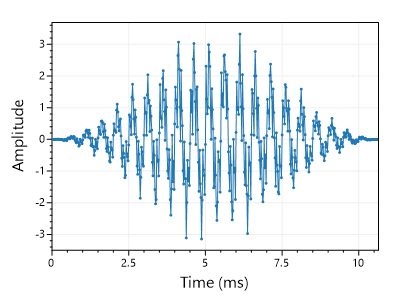
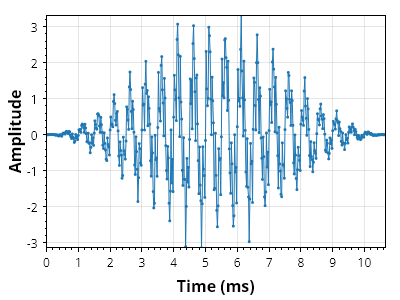
Tests: use ScottPlot 5

diff --git a/src/FftSharp.Tests/Filter.cs b/src/FftSharp.Tests/Filter.cs
@@ -1,9 +1,4 @@
 using NUnit.Framework;
-using System;
-using System.Collections.Generic;
-using System.Drawing;
-using System.Linq;
-using System.Text;
 
 namespace FftSharp.Tests;
 
@@ -20,7 +15,7 @@ class Filter
     public void LoadAndVerifyData()
     {
         Values = LoadData.Double("sample.txt");
-        TimesMsec = ScottPlot.DataGen.Consecutive(Values.Length, SamplePeriod * 1000.0);
+        TimesMsec = ScottPlot.Generate.Consecutive(Values.Length, SamplePeriod * 1000.0);
         Freqs = LoadData.Double("fftFreq.txt");
     }
 
@@ -29,13 +24,18 @@ class Filter
     {
         double[] Filtered = FftSharp.Filter.LowPass(Values, SampleRate, 2000);
 
-        var plt = new ScottPlot.Plot(600, 400);
-        plt.AddScatter(TimesMsec, Values, label: "Original");
-        plt.AddScatter(TimesMsec, Filtered, label: "Low-Pass", lineWidth: 2);
+        var plt = new ScottPlot.Plot();
+        
+        var sp1 = plt.Add.Scatter(TimesMsec, Values);
+        sp1.LegendText = "Original";
+
+        var sp2 = plt.Add.Scatter(TimesMsec, Filtered);
+        sp2.LegendText = "Low-Pass";
+        sp2.LineWidth = 2;
+
         plt.YLabel("Signal Value");
         plt.XLabel("Time (milliseconds)");
-        plt.Legend();
-        plt.SetAxisLimitsX(4, 6);
+        plt.Axes.SetLimitsX(4, 6);
 
         TestTools.SaveFig(plt);
     }
@@ -45,13 +45,18 @@ class Filter
     {
         double[] Filtered = FftSharp.Filter.HighPass(Values, SampleRate, 3000);
 
-        var plt = new ScottPlot.Plot(600, 400);
-        plt.AddScatter(TimesMsec, Values, label: "Original");
-        plt.AddScatter(TimesMsec, Filtered, label: "High-Pass", lineWidth: 2);
+        var plt = new ScottPlot.Plot();
+
+        var sp1 = plt.Add.Scatter(TimesMsec, Values);
+        sp1.LegendText = "Original";
+
+        var sp2 = plt.Add.Scatter(TimesMsec, Filtered);
+        sp2.LegendText = "High-Pass";
+        sp2.LineWidth = 2;
+
         plt.YLabel("Signal Value");
         plt.XLabel("Time (milliseconds)");
-        plt.Legend();
-        plt.SetAxisLimitsX(4, 6);
+        plt.Axes.SetLimitsX(4, 6);
 
         TestTools.SaveFig(plt);
     }
@@ -61,13 +66,17 @@ class Filter
     {
         double[] Filtered = FftSharp.Filter.BandPass(Values, SampleRate, 1900, 2100);
 
-        var plt = new ScottPlot.Plot(600, 400);
-        plt.AddScatter(TimesMsec, Values, label: "Original");
-        plt.AddScatter(TimesMsec, Filtered, label: "Band-Pass", lineWidth: 2);
+        var plt = new ScottPlot.Plot();
+
+        var sp1 = plt.Add.Scatter(TimesMsec, Values);
+        sp1.LegendText = "Original";
+
+        var sp2 = plt.Add.Scatter(TimesMsec, Filtered);
+        sp2.LegendText = "Band-Pass";
+        sp2.LineWidth = 2;
         plt.YLabel("Signal Value");
         plt.XLabel("Time (milliseconds)");
-        plt.Legend();
-        plt.SetAxisLimitsX(4, 6);
+        plt.Axes.SetLimitsX(4, 6);
 
         TestTools.SaveFig(plt);
     }
@@ -77,13 +86,18 @@ class Filter
     {
         double[] Filtered = FftSharp.Filter.BandStop(Values, SampleRate, 1900, 2100);
 
-        var plt = new ScottPlot.Plot(600, 400);
-        plt.AddScatter(TimesMsec, Values, label: "Original");
-        plt.AddScatter(TimesMsec, Filtered, label: "Band-Pass", lineWidth: 2);
+        var plt = new ScottPlot.Plot();
+        
+        var sp1 = plt.Add.Scatter(TimesMsec, Values);
+        sp1.LegendText = "Original";
+
+        var sp2 = plt.Add.Scatter(TimesMsec, Filtered);
+        sp2.LegendText = "Band-Pass";
+        sp2.LineWidth = 2;
+
         plt.YLabel("Signal Value");
         plt.XLabel("Time (milliseconds)");
-        plt.Legend();
-        plt.SetAxisLimitsX(4, 6);
+        plt.Axes.SetLimits(4, 6);
 
         TestTools.SaveFig(plt);
     }

diff --git a/src/FftSharp.Tests/Window.cs b/src/FftSharp.Tests/Window.cs
@@ -4,6 +4,7 @@ using System;
 using System.Collections.Generic;
 using System.IO;
 using System.Linq;
+using System.Reflection.Emit;
 
 namespace FftSharp.Tests;
 
@@ -105,23 +106,24 @@ class Window
     [Test]
     public void Test_Plot_AllWindowKernels()
     {
-        var plt = new ScottPlot.Plot(500, 400);
-        plt.Palette = ScottPlot.Palette.ColorblindFriendly;
+        ScottPlot.Plot plt = new();
+        plt.Add.Palette = new ScottPlot.Palettes.ColorblindFriendly();
 
         foreach (IWindow window in FftSharp.Window.GetWindows())
         {
             if (window.Name == "Rectangular")
                 continue;
-            double[] xs = ScottPlot.DataGen.Range(-1, 1, .01, true);
+            double[] xs = ScottPlot.Generate.Range(-1, 1, .01);
             double[] ys = window.Create(xs.Length);
-            var sp = plt.AddScatter(xs, ys, label: window.Name);
+            var sp = plt.Add.Scatter(xs, ys);
+            sp.LegendText = window.Name;
             sp.MarkerSize = 0;
             sp.LineWidth = 3;
-            sp.Color = System.Drawing.Color.FromArgb(200, sp.Color);
+            sp.Color = sp.Color.WithAlpha(.8);
         }
 
-        plt.Legend(enable: true, location: Alignment.UpperRight);
-        plt.SaveFig(Path.Combine(OUTPUT_FOLDER, "windows.png"));
+        plt.Legend.Alignment = Alignment.UpperRight;
+        plt.SavePng(Path.Combine(OUTPUT_FOLDER, "windows.png"), 500, 400);
     }
 
     [Test]
@@ -138,14 +140,14 @@ class Window
         {
             double[] values = window.Create(32);
             ScottPlot.Plot plt = new();
-            var sig = plt.AddSignal(values);
-            sig.OffsetX = -values.Length / 2 + .5;
+            var sig = plt.Add.Signal(values);
+            sig.Data.XOffset = -values.Length / 2 + .5;
             plt.Title(window.Name);
-            plt.AddVerticalLine(0);
+            plt.Add.VerticalLine(0);
 
             string filename = Path.GetFullPath($"test_window_{window.Name}.png");
             Console.WriteLine(filename);
-            plt.SaveFig(filename);
+            plt.SavePng(filename, 400, 300);
         }
     }
 }

diff --git a/src/FftSharp.Tests/Quickstart.cs b/src/FftSharp.Tests/Quickstart.cs
@@ -40,32 +40,34 @@ class Quickstart
         double[] freqs = FftSharp.FFT.FrequencyScale(fftPower.Length, sampleRate);
 
         // create an array of audio sample times to aid plotting
-        double[] times = ScottPlot.DataGen.Consecutive(audio.Length, 1000d / sampleRate);
+        double[] times = ScottPlot.Generate.Consecutive(audio.Length, 1000d / sampleRate);
 
         // plot the sample audio
-        var plt1 = new ScottPlot.Plot(400, 300);
-        plt1.AddScatter(times, audio, markerSize: 3);
+        var plt1 = new ScottPlot.Plot();
+        var sp1 = plt1.Add.Scatter(times, audio);
+        sp1.MarkerSize = 3;
         plt1.YLabel("Amplitude");
         plt1.XLabel("Time (ms)");
-        plt1.AxisAuto(0);
+        plt1.Axes.TightMargins();
 
         // plot the FFT amplitude
-        var plt2 = new ScottPlot.Plot(400, 300);
-        plt2.AddScatter(freqs, fftPower, markerSize: 3);
+        var plt2 = new ScottPlot.Plot();
+        var sp2 = plt2.Add.Scatter(freqs, fftPower);
+        sp2.MarkerSize = 3;
         plt2.YLabel("Power (dB)");
         plt2.XLabel("Frequency (Hz)");
-        plt2.AxisAuto(0);
+        plt2.Axes.TightMargins();
 
         // save output
         if (useWindow)
         {
-            plt1.SaveFig(Path.Combine(OUTPUT_FOLDER, "audio-windowed.png"));
-            plt2.SaveFig(Path.Combine(OUTPUT_FOLDER, "fft-windowed.png"));
+            plt1.SavePng(Path.Combine(OUTPUT_FOLDER, "audio-windowed.png"), 400, 300);
+            plt2.SavePng(Path.Combine(OUTPUT_FOLDER, "fft-windowed.png"), 400, 300);
         }
         else
         {
-            plt1.SaveFig(Path.Combine(OUTPUT_FOLDER, "audio.png"));
-            plt2.SaveFig(Path.Combine(OUTPUT_FOLDER, "fft.png"));
+            plt1.SavePng(Path.Combine(OUTPUT_FOLDER, "audio.png"), 400, 300);
+            plt2.SavePng(Path.Combine(OUTPUT_FOLDER, "fft.png"), 400, 300);
         }
     }
 }

diff --git a/src/FftSharp.Tests/Readme.cs b/src/FftSharp.Tests/Readme.cs
@@ -33,12 +33,12 @@ internal class Readme
         int sampleRate = 48_000;
 
         // plot the sample audio
-        var plt = new ScottPlot.Plot(400, 200);
-        plt.AddSignal(signal, sampleRate / 1000.0);
+        var plt = new ScottPlot.Plot();
+        plt.Add.Signal(signal, 1.0 / (sampleRate / 1000.0));
         plt.YLabel("Amplitude");
-        plt.Margins(0);
+        plt.Axes.TightMargins();
 
-        plt.SaveFig(Path.Combine(OUTPUT_FOLDER, "time-series.png"));
+        plt.SavePng(Path.Combine(OUTPUT_FOLDER, "time-series.png"), 400, 200);
     }
 
     [Test]
@@ -54,13 +54,13 @@ internal class Readme
         double[] freq = FftSharp.FFT.FrequencyScale(psd.Length, sampleRate);
 
         // plot the sample audio
-        var plt = new ScottPlot.Plot(400, 200);
-        plt.AddScatterLines(freq, psd);
+        var plt = new ScottPlot.Plot();
+        plt.Add.ScatterLine(freq, psd);
         plt.YLabel("Power (dB)");
         plt.XLabel("Frequency (Hz)");
-        plt.Margins(0);
+        plt.Axes.TightMargins();
 
-        plt.SaveFig(Path.Combine(OUTPUT_FOLDER, "periodogram.png"));
+        plt.SavePng(Path.Combine(OUTPUT_FOLDER, "periodogram.png"), 400, 200);
     }
 
     [Test]

diff --git a/src/FftSharp.Tests/FftFreqTests.cs b/src/FftSharp.Tests/FftFreqTests.cs
@@ -30,13 +30,13 @@ internal class FftFreqTests
         double[] fftFreq = FftSharp.FFT.FrequencyScale(fft.Length, sampleRateHz);
         Assert.That(fftFreq, Is.EqualTo(fftFreqKnown));
 
-        ScottPlot.Plot plt1 = new(400, 200);
-        plt1.AddSignal(samples, sampleRateHz);
+        ScottPlot.Plot plt1 = new();
+        plt1.Add.Signal(samples, 1.0 / sampleRateHz);
         TestTools.SaveFig(plt1, "signal");
 
-        ScottPlot.Plot plt2 = new(400, 200);
-        plt2.AddScatter(fftFreq, fft);
-        plt2.AddVerticalLine(2, System.Drawing.Color.Red, style: ScottPlot.LineStyle.Dash);
+        ScottPlot.Plot plt2 = new();
+        plt2.Add.Scatter(fftFreq, fft);
+        plt2.Add.VerticalLine(2, 2, ScottPlot.Colors.Red, ScottPlot.LinePattern.DenselyDashed);
         TestTools.SaveFig(plt2, "fft");
     }
 

diff --git a/src/FftSharp.Tests/Transform.cs b/src/FftSharp.Tests/Transform.cs
@@ -59,9 +59,9 @@ public class Transform
 
         TestTools.AssertMirror(fftAmp);
 
-        var plt = new ScottPlot.Plot(600, 400);
-        plt.AddLollipop(fftAmp, fftFreq);
-        plt.PlotHLine(0, color: Color.Black, lineWidth: 2);
+        var plt = new ScottPlot.Plot();
+        plt.Add.Lollipop(fftAmp, fftFreq);
+        plt.Add.HorizontalLine(0, 2, ScottPlot.Colors.Black);
         plt.YLabel("Magnitude (rms^2?)");
         plt.XLabel("Frequency (Hz)");
         TestTools.SaveFig(plt);

diff --git a/src/FftSharp.Tests/TestTools.cs b/src/FftSharp.Tests/TestTools.cs
@@ -1,7 +1,5 @@
 using NUnit.Framework;
 using System;
-using System.Collections.Generic;
-using System.Text;
 
 namespace FftSharp.Tests;
 
@@ -17,7 +15,7 @@ public static class TestTools
 
         string fileName = callingMethod + subName + ".png";
         string filePath = System.IO.Path.GetFullPath(fileName);
-        plt.SaveFig(filePath);
+        plt.SavePng(filePath, 600, 400);
 
         Console.WriteLine($"Saved: {filePath}");
         Console.WriteLine();
